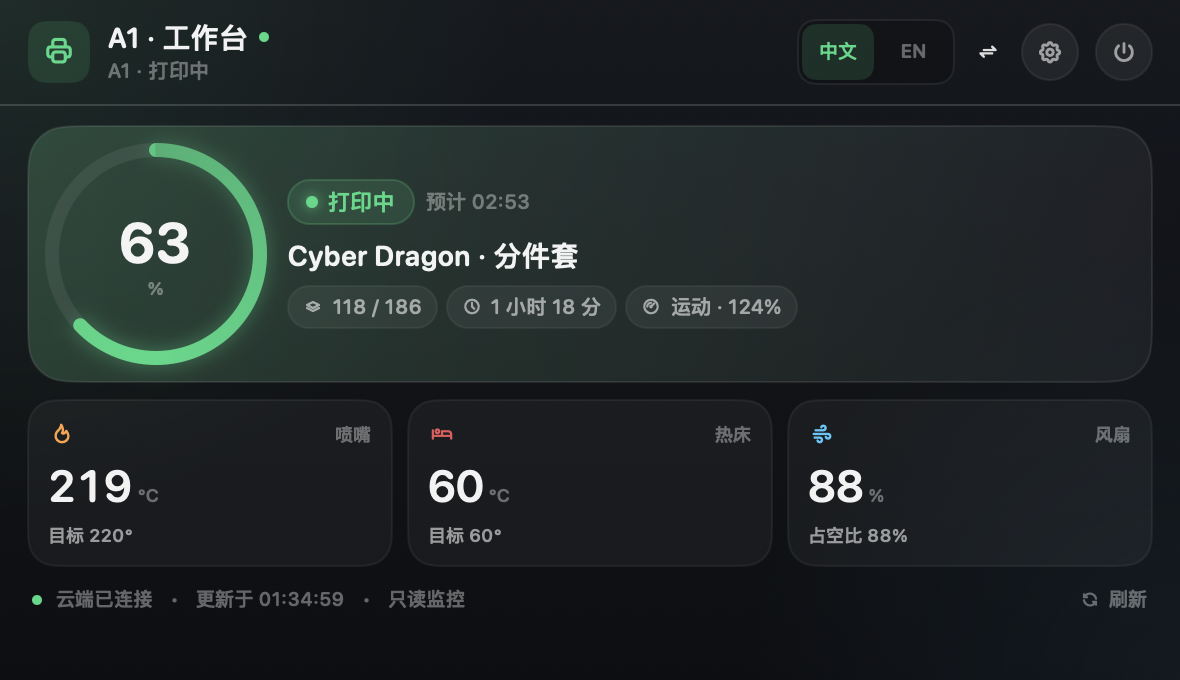
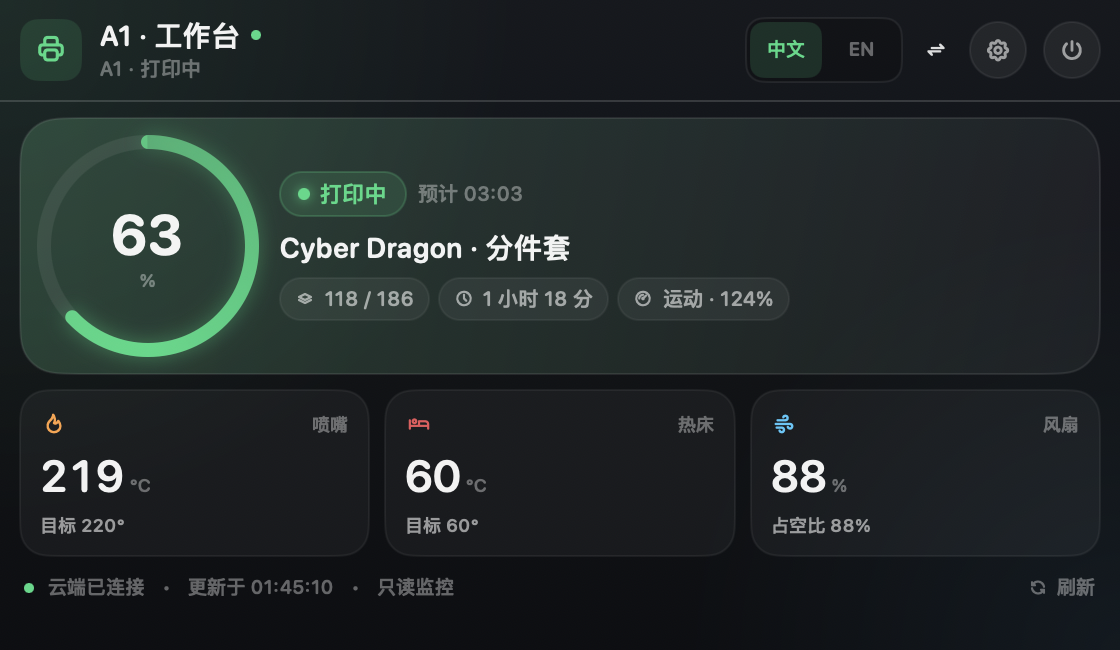
Release 2.0.1: smaller monitor and settings panels

diff --git a/Sources/SettingsView.swift b/Sources/SettingsView.swift
@@ -9,31 +9,31 @@ struct SettingsView: View {
     var body: some View {
         VStack(spacing: 0) {
             header
-                .padding(.horizontal, 16)
-                .padding(.vertical, 10)
+                .padding(.horizontal, 10)
+                .padding(.vertical, 9)
 
             Divider().overlay(Color.white.opacity(0.06))
 
-            HStack(alignment: .top, spacing: 10) {
-                VStack(spacing: 10) {
+            HStack(alignment: .top, spacing: 8) {
+                VStack(spacing: 9) {
                     accountCard
                     languageSection
                 }
-                .frame(width: 268)
+                .frame(width: 258)
 
-                VStack(spacing: 10) {
+                VStack(spacing: 9) {
                     generalSection
                     aboutSection
                 }
-                .frame(width: 264)
+                .frame(width: 256)
 
                 Spacer(minLength: 0)
             }
-            .padding(.horizontal, 16)
-            .padding(.top, 10)
-            .padding(.bottom, 12)
+            .padding(.horizontal, 10)
+            .padding(.top, 8)
+            .padding(.bottom, 8)
         }
-        .frame(width: 590, height: 300, alignment: .top)
+        .frame(width: 560, height: 300, alignment: .top)
         .background(PanelBackground())
         .environment(\.colorScheme, .dark)
     }
@@ -87,7 +87,7 @@ struct SettingsView: View {
                 LogoMark(size: 32)
                 VStack(alignment: .leading, spacing: 2) {
                     Text(app.session?.account ?? Lang.t("未登录", "Not signed in"))
-                        .font(.system(size: 11.5, weight: .semibold, design: .rounded))
+                        .font(.system(size: 11, weight: .semibold, design: .rounded))
                         .foregroundStyle(Theme.textPrimary)
                         .lineLimit(1)
                     Text("\(app.session?.region.title ?? "—") · UID \(app.session?.uid ?? "—")")
@@ -96,13 +96,16 @@ struct SettingsView: View {
                         .lineLimit(1)
                 }
                 Spacer()
-                Button(Lang.t("退出登录", "Sign out")) { app.logout() }
-                    .buttonStyle(.plain)
-                    .font(.system(size: 9.5, weight: .medium, design: .rounded))
-                    .foregroundStyle(Theme.red)
-                    .padding(.horizontal, 9)
-                    .padding(.vertical, 4)
-                    .background(Capsule().fill(Theme.red.opacity(0.10)))
+                Button {
+                    app.logout()
+                } label: {
+                    TBIconView(icon: .logout, size: 11, color: Theme.red)
+                        .frame(width: 26, height: 24)
+                        .contentShape(Rectangle())
+                        .background(Capsule().fill(Theme.red.opacity(0.10)))
+                }
+                .buttonStyle(.plain)
+                .help(Lang.t("退出登录", "Sign out"))
             }
         }
         .card(padding: 11, radius: 16)
@@ -225,6 +228,6 @@ struct SettingsView: View {
     }
 
     private var appVersion: String {
-        (Bundle.main.infoDictionary?["CFBundleShortVersionString"] as? String) ?? "2.0.0"
+        (Bundle.main.infoDictionary?["CFBundleShortVersionString"] as? String) ?? "2.0.1"
     }
 }

diff --git a/Tools/SnapshotMain.swift b/Tools/SnapshotMain.swift
@@ -25,7 +25,7 @@ struct SnapshotMain {
                 let model = AppModel.demo(language: language)
                 if let service = model.selectedService {
                     let dashboard = DashboardView(service: service).environmentObject(model)
-                    enqueue(dashboard, size: CGSize(width: 590, height: 340),
+                    enqueue(dashboard, size: CGSize(width: 560, height: 325),
                             path: dir.appendingPathComponent("dashboard.png").path)
                 }
 
@@ -34,7 +34,7 @@ struct SnapshotMain {
                 enqueue(LoginView().environmentObject(loginModel), size: CGSize(width: 600, height: 400),
                         path: dir.appendingPathComponent("login.png").path)
 
-                enqueue(SettingsView().environmentObject(model), size: CGSize(width: 590, height: 300),
+                enqueue(SettingsView().environmentObject(model), size: CGSize(width: 560, height: 300),
                         path: dir.appendingPathComponent("settings.png").path)
 
                 DispatchQueue.main.asyncAfter(deadline: .now() + 1.8) {

diff --git a/Sources/DashboardView.swift b/Sources/DashboardView.swift
@@ -14,21 +14,21 @@ struct DashboardView: View {
     var body: some View {
         VStack(spacing: 0) {
             header
-                .padding(.horizontal, 14)
-                .padding(.vertical, 10)
+                .padding(.horizontal, 10)
+                .padding(.vertical, 9)
 
             Divider().overlay(Color.white.opacity(0.06))
 
-            VStack(spacing: 9) {
+            VStack(spacing: 8) {
                 heroCard
                 temperatureGrid
                 monitorStrip
             }
-            .padding(.horizontal, 14)
-            .padding(.top, 10)
-            .padding(.bottom, 10)
+            .padding(.horizontal, 10)
+            .padding(.top, 8)
+            .padding(.bottom, 6)
         }
-        .frame(width: 590, height: 340, alignment: .top)
+        .frame(width: 560, height: 325, alignment: .top)
         .background(PanelBackground())
     }
 

diff --git a/Sources/AppModel.swift b/Sources/AppModel.swift
@@ -386,7 +386,7 @@ final class AppModel: ObservableObject {
     // MARK: - Update check
 
     private var appVersion: String {
-        (Bundle.main.infoDictionary?["CFBundleShortVersionString"] as? String) ?? "2.0.0"
+        (Bundle.main.infoDictionary?["CFBundleShortVersionString"] as? String) ?? "2.0.1"
     }
 
     /// Checks the public GitHub Releases API at most once every six hours.

diff --git a/README.md b/README.md
@@ -11,7 +11,7 @@
 
 <p align="center">
   <a href="https://github.com/GuoDaiYi/BambuBar/actions/workflows/build.yml"><img alt="Build" src="https://github.com/GuoDaiYi/BambuBar/actions/workflows/build.yml/badge.svg"></a>
-  <a href="https://github.com/GuoDaiYi/BambuBar/releases/latest"><img alt="Version 2.0.0" src="https://img.shields.io/badge/version-2.0.0-brightgreen"></a>
+  <a href="https://github.com/GuoDaiYi/BambuBar/releases/latest"><img alt="Version 2.0.1" src="https://img.shields.io/badge/version-2.0.1-brightgreen"></a>
   <img alt="macOS 13+" src="https://img.shields.io/badge/macOS-13%2B-black?logo=apple">
   <img alt="Universal binary" src="https://img.shields.io/badge/binary-universal-blue">
   <img alt="Swift 5.8" src="https://img.shields.io/badge/Swift-5.8-orange?logo=swift">
@@ -59,7 +59,7 @@ Available in **English** and **Simplified Chinese** — switch languages from th
 
 ### Download the app
 
-Download **BambuBar-2.0.0-macOS.dmg** from the [latest release](https://github.com/GuoDaiYi/BambuBar/releases/latest), open it, and drag **BambuBar** into **Applications**. The DMG contains a universal binary for Apple Silicon and Intel Macs.
+Download **BambuBar-2.0.1-macOS.dmg** from the [latest release](https://github.com/GuoDaiYi/BambuBar/releases/latest), open it, and drag **BambuBar** into **Applications**. The DMG contains a universal binary for Apple Silicon and Intel Macs.
 
 The app is ad-hoc signed but not notarized. If macOS refuses to launch it, right-click the app and choose **Open**, or run:
 

diff --git a/docs/release-notes-2.0.1.md b/docs/release-notes-2.0.1.md
@@ -1,0 +1,27 @@
+# BambuBar 2.0.1
+
+## What's new
+
+- **Smaller monitor window** — reduced from `590 × 340` to `560 × 325`, with less horizontal padding and no empty strip below the footer.
+- **Smaller settings panel** — `560 × 300`, matching the compact monitor.
+- **Cleaner account row** — sign-out is now an icon button, so the account email and UID no longer truncate.
+- **All read-only monitor behavior from 2.0.0 is unchanged** — progress, layers, ETA, download/unpack phases, read-only temperatures, update checks, auto-hide and monochrome notifications.
+
+## Install
+
+Download `BambuBar-2.0.1-macOS.dmg`, open it, and drag **BambuBar** into **Applications**.
+
+---
+
+# BambuBar 2.0.1（中文）
+
+## 本次更新
+
+- **监控窗口更小**：从 `590 × 340` 缩小到 `560 × 325`，左右内边距收紧，底部不再留空。
+- **设置面板更小**：`560 × 300`，与监控面板一致。
+- **账号行优化**：退出登录改成图标按钮，邮箱和 UID 不再被截断。
+- **只读监控功能保持不变**：进度、层数、预计时间、下载/解压阶段、只读温度、更新检查、自动收回和单色通知。
+
+## 安装
+
+下载 `BambuBar-2.0.1-macOS.dmg`，打开后把 **BambuBar** 拖进 **Applications**。
